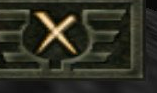
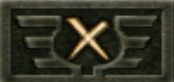
Precise plate cuts: gradient-based edges; cross plate rebuilt from checkmark base + glyph patch

diff --git a/web/css/style.css b/web/css/style.css
@@ -250,12 +250,12 @@ html, body {
   padding: 0;
 }
 
-/* плита-заголовок: срез с options-экрана ПЗ (references/2_1.jpg) —
+/* плита-заголовок: срез с options-экрана ПЗ (references/2_1.jpg, x[694..1228] y[16..115]) —
  * текст вплавлен в картинку, наш текст не нужен */
 .settings-title {
   margin: 10px auto 0;
   width: 340px;
-  height: 78px;
+  height: 63px;
   background: url("../assets/img/plate-settings.png") center / contain no-repeat;
   text-indent: -9999px;
   overflow: hidden;
@@ -304,17 +304,20 @@ html, body {
   outline: 1px solid #57492a;
 }
 
-/* плиты OK/X: срезы с options-экрана ПЗ (галочка — 2_1.jpg, крестик —
- * кроп автора с другого момента игры); символы вплавлены в картинки */
+/* плиты OK/X: срезы с options-экрана ПЗ — плитки одинаковые (174x82,
+ * x[512..686] y[947..1029]); крестик собран из базы-галочки и глифа с
+ * частично перекрытой плитки крестика (текстуры идентичны) */
 .settings-buttons {
   display: flex;
   justify-content: center;
   align-items: flex-end;
-  gap: 18px;
+  gap: 24px;
   margin-top: 12px;
 }
 
 .plate-btn {
+  width: 130px;
+  height: 61px;
   border: 0;
   padding: 0;
   background-color: transparent;
@@ -328,14 +331,10 @@ html, body {
 }
 
 #set-ok {
-  width: 140px;
-  height: 78px;
   background-image: url("../assets/img/plate-confirm.png");
 }
 
 #set-cancel {
-  width: 125px;
-  height: 74px;
   background-image: url("../assets/img/plate-cancel.png");
 }
 
